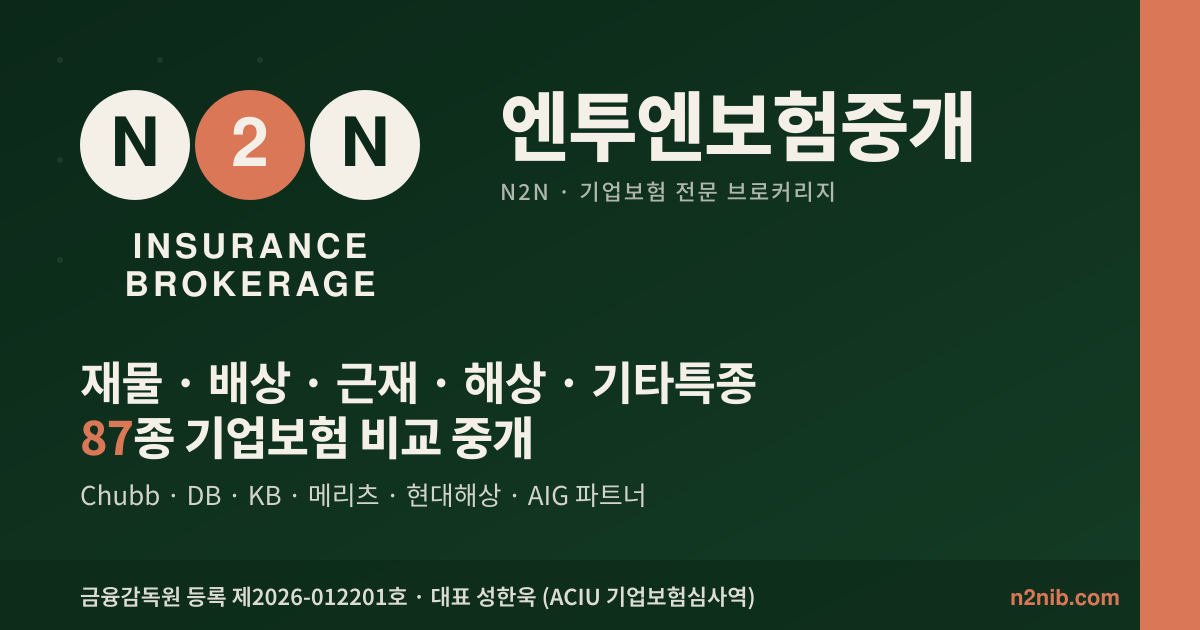
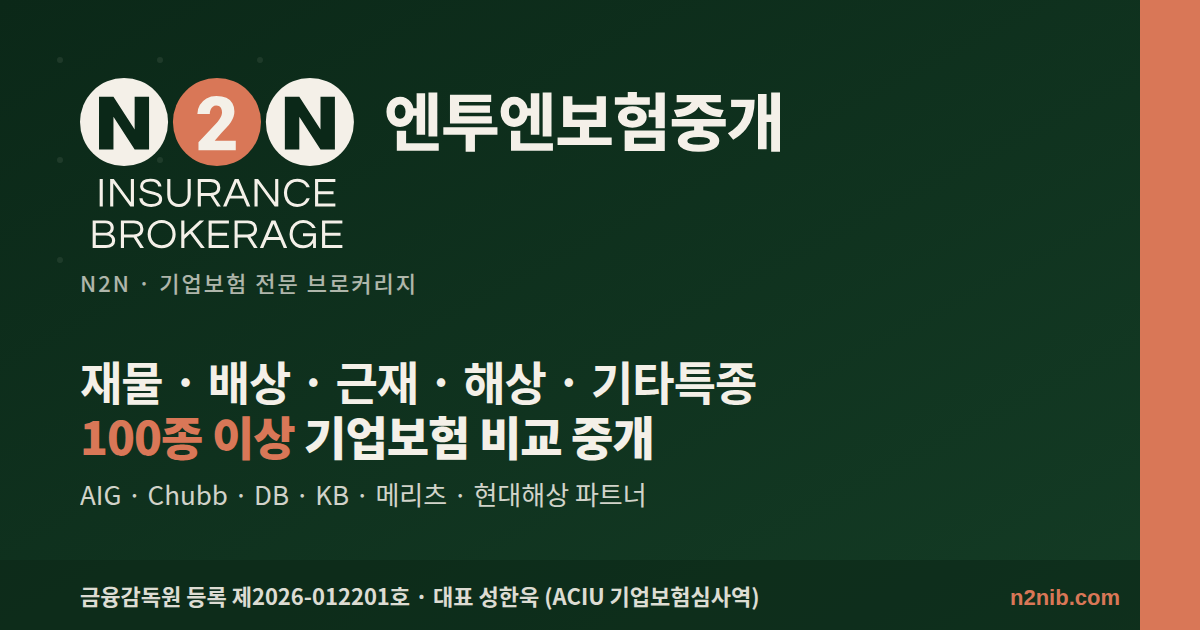
fix: OG 카드 정본 로고 적용 + 종수 100종 이상 통일, 영문 로고 재작성, og:image 9페이지 추가

diff --git a/partner/courier.html b/partner/courier.html
@@ -4,11 +4,29 @@
 <meta charset="utf-8">
 <meta name="viewport" content="width=device-width, initial-scale=1.0">
 <title>물류 파트너를 위한 적하·기업보험 비교중개 — N2N Insurance Brokerage</title>
-<meta name="description" content="FedEx·UPS·DHL·EMS 등 물류 파트너와 함께 일하는 화주를 위한 적하보험 5분 비교(cargoinsu.com) + 기업종합보험 112상품 비교중개(n2nib.com). 6개 보험사 동시 비교, ACIU 심사역 직접 상담, 사고 시 손해사정까지 N2N이 직접 처리.">
+<meta name="description" content="FedEx·UPS·DHL·EMS 등 물류 파트너와 함께 일하는 화주를 위한 적하보험 5분 비교(cargoinsu.com) + 기업종합보험 100종 이상 비교중개(n2nib.com). 6개 보험사 동시 비교, ACIU 심사역 직접 상담, 사고 시 손해사정까지 N2N이 직접 처리.">
 <meta property="og:title" content="물류 파트너를 위한 적하·기업보험 — N2N">
 <meta property="og:description" content="6개 보험사 5분 비교, ACIU 심사역 직접 상담, 사고 처리까지 한 곳에서.">
 <meta property="og:type" content="website">
 <link rel="canonical" href="https://n2nib.com/partner/courier">
+<!-- Open Graph -->
+<meta property="og:type" content="website">
+<meta property="og:locale" content="ko_KR">
+<meta property="og:site_name" content="n2nib.com">
+<meta property="og:title" content="물류 파트너를 위한 적하·기업보험 비교중개 — N2N Insurance Brokerage">
+<meta property="og:description" content="FedEx·UPS·DHL·EMS 등 물류 파트너와 함께 일하는 화주를 위한 적하보험 5분 비교(cargoinsu.com) + 기업종합보험 100종 이상 비교중개(n2nib.com). 6개 보험사 동시 비교, ACIU 심사역 직접 상담, 사고 시 손해사정까지 N2N이 직접 처리.">
+<meta property="og:url" content="https://n2nib.com/partner/courier">
+<meta property="og:image" content="https://n2nib.com/assets/og-image.png">
+<meta property="og:image:secure_url" content="https://n2nib.com/assets/og-image.png">
+<meta property="og:image:type" content="image/png">
+<meta property="og:image:width" content="1200">
+<meta property="og:image:height" content="630">
+<meta property="og:image:alt" content="엔투엔보험중개 — 기업보험 비교중개 플랫폼 n2nib.com">
+<!-- Twitter Card -->
+<meta name="twitter:card" content="summary_large_image">
+<meta name="twitter:title" content="물류 파트너를 위한 적하·기업보험 비교중개 — N2N Insurance Brokerage">
+<meta name="twitter:description" content="FedEx·UPS·DHL·EMS 등 물류 파트너와 함께 일하는 화주를 위한 적하보험 5분 비교(cargoinsu.com) + 기업종합보험 100종 이상 비교중개(n2nib.com). 6개 보험사 동시 비교, ACIU 심사역 직접 상담, 사고 시 손해사정까지 N2N이 직접 처리.">
+<meta name="twitter:image" content="https://n2nib.com/assets/og-image.png">
 <style>
   :root {
     --brand: #0B2818;
@@ -509,11 +527,11 @@
     </h1>
     <p class="hero__lead">
       cargoinsu.com에서 5분이면 <strong>6개 보험사 비교견적 + 즉시 가입 + PDF 증권 발급</strong>까지 됩니다.
-      복잡한 기업보험은 n2nib.com에서 112상품을 비교 검토할 수 있습니다.
+      복잡한 기업보험은 n2nib.com에서 100종 이상의 상품을 비교 검토할 수 있습니다.
     </p>
     <div class="hero__actions">
       <a href="https://cargoinsu.com" class="btn btn-primary">🚢 적하보험 5분 비교 →</a>
-      <a href="https://n2nib.com" class="btn btn-secondary">🏢 기업보험 112상품 보기</a>
+      <a href="https://n2nib.com" class="btn btn-secondary">🏢 기업보험 100종 이상의 상품 보기</a>
     </div>
   </div>
 </section>
@@ -545,9 +563,9 @@
       </a>
       <a href="https://n2nib.com" class="platform-card">
         <div class="platform-card__url">n2nib.com</div>
-        <div class="platform-card__role">기업종합보험 112상품 비교중개</div>
+        <div class="platform-card__role">기업종합보험 100종 이상의 상품 비교중개</div>
         <p class="platform-card__desc">
-          화재·배상·근재·기술·해상·특종 전 분야 112상품을 ACIU 심사역이 직접 비교 안내합니다.
+          화재·배상·근재·기술·해상·특종 전 분야 100종 이상의 상품을 ACIU 심사역이 직접 비교 안내합니다.
         </p>
         <ul class="platform-card__features">
           <li>재물 (화재·풍수해·기업종합 등 30종)</li>
@@ -672,7 +690,7 @@
       <details class="faq-item">
         <summary>기업보험(화재·배상·근재 등)은 어디서 비교할 수 있나요?</summary>
         <div class="faq-item__answer">
-          n2nib.com에서 화재·배상·근재·기술·해상·특종 6개 카테고리, 총 112상품을 비교하실 수 있습니다. 각 상품 페이지에 현장 사고 사례·자주 묻는 질문·가입 시 주의 항목까지 정리되어 있어 자율 검토가 가능하며, 복잡한 건은 ACIU 심사역이 직접 상담해드립니다.
+          n2nib.com에서 화재·배상·근재·기술·해상·특종 6개 카테고리, 총 100종 이상의 상품을 비교하실 수 있습니다. 각 상품 페이지에 현장 사고 사례·자주 묻는 질문·가입 시 주의 항목까지 정리되어 있어 자율 검토가 가능하며, 복잡한 건은 ACIU 심사역이 직접 상담해드립니다.
         </div>
       </details>
     </div>
@@ -716,7 +734,7 @@
       <div>
         <h4>🌐 사이트</h4>
         <a href="https://cargoinsu.com" style="color: var(--accent-light);">cargoinsu.com</a> · 적하보험<br>
-        <a href="https://n2nib.com" style="color: var(--accent-light);">n2nib.com</a> · 기업보험 112상품<br>
+        <a href="https://n2nib.com" style="color: var(--accent-light);">n2nib.com</a> · 기업보험 100종 이상의 상품<br>
         서울특별시 서초구 방배로30길 41
       </div>
     </div>

diff --git a/insights/media-production-liability.html b/insights/media-production-liability.html
@@ -7,6 +7,24 @@
 <title>[케이스] 해외 발주처의 광고 제작 계약, 영업배상책임 하나로는 왜 부족한가 — 영상 프로덕션의 3층 담보 구조 | n2nib.com</title>
 <meta name="description" content="해외 발주처가 요구하는 광고·영상 제작 계약의 보험 조항은 CGL 한 장으로 충족되지 않습니다. 현장 위험(CGL)·제작물 위험(미디어 전문직업배상)·데이터 위험(사이버)의 3층 구조와 추가피보험자·대위권 포기 등 부대조건을 ACIU 보험중개사 관점에서 익명 검토사례로 정리합니다.">
 <link rel="canonical" href="https://n2nib.com/insights/media-production-liability">
+<!-- Open Graph -->
+<meta property="og:type" content="article">
+<meta property="og:locale" content="ko_KR">
+<meta property="og:site_name" content="n2nib.com">
+<meta property="og:title" content="[케이스] 해외 발주처의 광고 제작 계약, 영업배상책임 하나로는 왜 부족한가 — 영상 프로덕션의 3층 담보 구조 | n2nib.com">
+<meta property="og:description" content="해외 발주처가 요구하는 광고·영상 제작 계약의 보험 조항은 CGL 한 장으로 충족되지 않습니다. 현장 위험(CGL)·제작물 위험(미디어 전문직업배상)·데이터 위험(사이버)의 3층 구조와 추가피보험자·대위권 포기 등 부대조건을 ACIU 보험중개사 관점에서 익명 검토사례로 정리합니다.">
+<meta property="og:url" content="https://n2nib.com/insights/media-production-liability">
+<meta property="og:image" content="https://n2nib.com/assets/og-image.png">
+<meta property="og:image:secure_url" content="https://n2nib.com/assets/og-image.png">
+<meta property="og:image:type" content="image/png">
+<meta property="og:image:width" content="1200">
+<meta property="og:image:height" content="630">
+<meta property="og:image:alt" content="엔투엔보험중개 — 기업보험 비교중개 플랫폼 n2nib.com">
+<!-- Twitter Card -->
+<meta name="twitter:card" content="summary_large_image">
+<meta name="twitter:title" content="[케이스] 해외 발주처의 광고 제작 계약, 영업배상책임 하나로는 왜 부족한가 — 영상 프로덕션의 3층 담보 구조 | n2nib.com">
+<meta name="twitter:description" content="해외 발주처가 요구하는 광고·영상 제작 계약의 보험 조항은 CGL 한 장으로 충족되지 않습니다. 현장 위험(CGL)·제작물 위험(미디어 전문직업배상)·데이터 위험(사이버)의 3층 구조와 추가피보험자·대위권 포기 등 부대조건을 ACIU 보험중개사 관점에서 익명 검토사례로 정리합니다.">
+<meta name="twitter:image" content="https://n2nib.com/assets/og-image.png">
 
 <link rel="preconnect" href="https://fonts.googleapis.com">
 <link rel="preconnect" href="https://fonts.gstatic.com" crossorigin>

diff --git a/insights/overseas-contract-pi-eo.html b/insights/overseas-contract-pi-eo.html
@@ -7,6 +7,24 @@
 <title>[케이스] 해외 용역계약이 요구하는 PI·E&amp;O — '6년 유지' 조항과 ERP를 어떻게 처리하는가 | n2nib.com</title>
 <meta name="description" content="해외 고객사와 용역계약을 맺을 때 요구되는 전문직업배상책임보험(PI/E&O). 보상한도 통화, 준거법·재판관할, 계약 종료 후 6년 유지 조항, 60개월 run-off 요구를 국내 보험시장에서 어떻게 처리하는지 ACIU 보험중개사 관점에서 익명 검토사례로 정리합니다.">
 <link rel="canonical" href="https://n2nib.com/insights/overseas-contract-pi-eo">
+<!-- Open Graph -->
+<meta property="og:type" content="article">
+<meta property="og:locale" content="ko_KR">
+<meta property="og:site_name" content="n2nib.com">
+<meta property="og:title" content="[케이스] 해외 용역계약이 요구하는 PI·E&amp;O — '6년 유지' 조항과 ERP를 어떻게 처리하는가 | n2nib.com">
+<meta property="og:description" content="해외 고객사와 용역계약을 맺을 때 요구되는 전문직업배상책임보험(PI/E&amp;O). 보상한도 통화, 준거법·재판관할, 계약 종료 후 6년 유지 조항, 60개월 run-off 요구를 국내 보험시장에서 어떻게 처리하는지 ACIU 보험중개사 관점에서 익명 검토사례로 정리합니다.">
+<meta property="og:url" content="https://n2nib.com/insights/overseas-contract-pi-eo">
+<meta property="og:image" content="https://n2nib.com/assets/og-image.png">
+<meta property="og:image:secure_url" content="https://n2nib.com/assets/og-image.png">
+<meta property="og:image:type" content="image/png">
+<meta property="og:image:width" content="1200">
+<meta property="og:image:height" content="630">
+<meta property="og:image:alt" content="엔투엔보험중개 — 기업보험 비교중개 플랫폼 n2nib.com">
+<!-- Twitter Card -->
+<meta name="twitter:card" content="summary_large_image">
+<meta name="twitter:title" content="[케이스] 해외 용역계약이 요구하는 PI·E&amp;O — '6년 유지' 조항과 ERP를 어떻게 처리하는가 | n2nib.com">
+<meta name="twitter:description" content="해외 고객사와 용역계약을 맺을 때 요구되는 전문직업배상책임보험(PI/E&amp;O). 보상한도 통화, 준거법·재판관할, 계약 종료 후 6년 유지 조항, 60개월 run-off 요구를 국내 보험시장에서 어떻게 처리하는지 ACIU 보험중개사 관점에서 익명 검토사례로 정리합니다.">
+<meta name="twitter:image" content="https://n2nib.com/assets/og-image.png">
 
 <link rel="preconnect" href="https://fonts.googleapis.com">
 <link rel="preconnect" href="https://fonts.gstatic.com" crossorigin>

diff --git a/insights/case-clinical-phase1.html b/insights/case-clinical-phase1.html
@@ -7,6 +7,24 @@
 <meta name="description" content="임상시험 배상책임보험에서 법률상 배상책임과 피험자 무과실 보상의 차이, claims-made 소급담보일과 시험 종료 후 담보, 의뢰자·실시기관·시험자 간 책임 구분을 실제 검토 사례로 정리합니다.">
 <meta name="robots" content="index, follow">
 <link rel="canonical" href="https://n2nib.com/insights/case-clinical-phase1">
+<!-- Open Graph -->
+<meta property="og:type" content="article">
+<meta property="og:locale" content="ko_KR">
+<meta property="og:site_name" content="n2nib.com">
+<meta property="og:title" content="임상시험 중 피험자에게 이상반응이 생겼다 — 배상책임과 보상은 다른 문제다 | 현장에서 본 기업보험">
+<meta property="og:description" content="임상시험 배상책임보험에서 법률상 배상책임과 피험자 무과실 보상의 차이, claims-made 소급담보일과 시험 종료 후 담보, 의뢰자·실시기관·시험자 간 책임 구분을 실제 검토 사례로 정리합니다.">
+<meta property="og:url" content="https://n2nib.com/insights/case-clinical-phase1">
+<meta property="og:image" content="https://n2nib.com/assets/og-image.png">
+<meta property="og:image:secure_url" content="https://n2nib.com/assets/og-image.png">
+<meta property="og:image:type" content="image/png">
+<meta property="og:image:width" content="1200">
+<meta property="og:image:height" content="630">
+<meta property="og:image:alt" content="엔투엔보험중개 — 기업보험 비교중개 플랫폼 n2nib.com">
+<!-- Twitter Card -->
+<meta name="twitter:card" content="summary_large_image">
+<meta name="twitter:title" content="임상시험 중 피험자에게 이상반응이 생겼다 — 배상책임과 보상은 다른 문제다 | 현장에서 본 기업보험">
+<meta name="twitter:description" content="임상시험 배상책임보험에서 법률상 배상책임과 피험자 무과실 보상의 차이, claims-made 소급담보일과 시험 종료 후 담보, 의뢰자·실시기관·시험자 간 책임 구분을 실제 검토 사례로 정리합니다.">
+<meta name="twitter:image" content="https://n2nib.com/assets/og-image.png">
 <meta property="og:type" content="article">
 <meta property="og:url" content="https://n2nib.com/insights/case-clinical-phase1">
 <meta property="og:title" content="임상시험 중 피험자에게 이상반응이 생겼다 — 배상책임과 보상은 다른 문제다 | 현장에서 본 기업보험">

diff --git a/insights/us-msa-required-insurance.html b/insights/us-msa-required-insurance.html
@@ -7,6 +7,24 @@
 <title>[케이스] 미국 발주처 계약의 요구보험 — 국내 증권으로 충족되지 않는 것들 | n2nib.com</title>
 <meta name="description" content="미국 발주처와의 공급·설치 계약이 요구하는 CGL·근재(WC/EL)·자동차·우산·설계책임·설치공사 보험. admitted 요건, 추가피보험자 배서의 두 종류, 산재이력 고지의무를 ACIU 보험중개사 관점에서 익명 검토사례로 정리합니다.">
 <link rel="canonical" href="https://n2nib.com/insights/us-msa-required-insurance">
+<!-- Open Graph -->
+<meta property="og:type" content="article">
+<meta property="og:locale" content="ko_KR">
+<meta property="og:site_name" content="n2nib.com">
+<meta property="og:title" content="[케이스] 미국 발주처 계약의 요구보험 — 국내 증권으로 충족되지 않는 것들 | n2nib.com">
+<meta property="og:description" content="미국 발주처와의 공급·설치 계약이 요구하는 CGL·근재(WC/EL)·자동차·우산·설계책임·설치공사 보험. admitted 요건, 추가피보험자 배서의 두 종류, 산재이력 고지의무를 ACIU 보험중개사 관점에서 익명 검토사례로 정리합니다.">
+<meta property="og:url" content="https://n2nib.com/insights/us-msa-required-insurance">
+<meta property="og:image" content="https://n2nib.com/assets/og-image.png">
+<meta property="og:image:secure_url" content="https://n2nib.com/assets/og-image.png">
+<meta property="og:image:type" content="image/png">
+<meta property="og:image:width" content="1200">
+<meta property="og:image:height" content="630">
+<meta property="og:image:alt" content="엔투엔보험중개 — 기업보험 비교중개 플랫폼 n2nib.com">
+<!-- Twitter Card -->
+<meta name="twitter:card" content="summary_large_image">
+<meta name="twitter:title" content="[케이스] 미국 발주처 계약의 요구보험 — 국내 증권으로 충족되지 않는 것들 | n2nib.com">
+<meta name="twitter:description" content="미국 발주처와의 공급·설치 계약이 요구하는 CGL·근재(WC/EL)·자동차·우산·설계책임·설치공사 보험. admitted 요건, 추가피보험자 배서의 두 종류, 산재이력 고지의무를 ACIU 보험중개사 관점에서 익명 검토사례로 정리합니다.">
+<meta name="twitter:image" content="https://n2nib.com/assets/og-image.png">
 
 <link rel="preconnect" href="https://fonts.googleapis.com">
 <link rel="preconnect" href="https://fonts.gstatic.com" crossorigin>

diff --git a/insights/case-event-organizer.html b/insights/case-event-organizer.html
@@ -7,6 +7,24 @@
 <meta name="description" content="행사주최자 배상책임보험에서 제3자(참가자)와 스태프의 구분, 법률상 배상책임과 무과실 상해보상의 차이, 체험형 행사의 위험 요소와 하도급 책임 이전을 실제 설계 사례로 정리합니다.">
 <meta name="robots" content="index, follow">
 <link rel="canonical" href="https://n2nib.com/insights/case-event-organizer">
+<!-- Open Graph -->
+<meta property="og:type" content="article">
+<meta property="og:locale" content="ko_KR">
+<meta property="og:site_name" content="n2nib.com">
+<meta property="og:title" content="체험 행사에서 참가자가 다쳤다 — 그런데 다친 사람이 스태프라면 | 현장에서 본 기업보험">
+<meta property="og:description" content="행사주최자 배상책임보험에서 제3자(참가자)와 스태프의 구분, 법률상 배상책임과 무과실 상해보상의 차이, 체험형 행사의 위험 요소와 하도급 책임 이전을 실제 설계 사례로 정리합니다.">
+<meta property="og:url" content="https://n2nib.com/insights/case-event-organizer">
+<meta property="og:image" content="https://n2nib.com/assets/og-image.png">
+<meta property="og:image:secure_url" content="https://n2nib.com/assets/og-image.png">
+<meta property="og:image:type" content="image/png">
+<meta property="og:image:width" content="1200">
+<meta property="og:image:height" content="630">
+<meta property="og:image:alt" content="엔투엔보험중개 — 기업보험 비교중개 플랫폼 n2nib.com">
+<!-- Twitter Card -->
+<meta name="twitter:card" content="summary_large_image">
+<meta name="twitter:title" content="체험 행사에서 참가자가 다쳤다 — 그런데 다친 사람이 스태프라면 | 현장에서 본 기업보험">
+<meta name="twitter:description" content="행사주최자 배상책임보험에서 제3자(참가자)와 스태프의 구분, 법률상 배상책임과 무과실 상해보상의 차이, 체험형 행사의 위험 요소와 하도급 책임 이전을 실제 설계 사례로 정리합니다.">
+<meta name="twitter:image" content="https://n2nib.com/assets/og-image.png">
 <meta property="og:type" content="article">
 <meta property="og:url" content="https://n2nib.com/insights/case-event-organizer">
 <meta property="og:title" content="체험 행사에서 참가자가 다쳤다 — 그런데 다친 사람이 스태프라면 | 현장에서 본 기업보험">

diff --git a/insights/case-outdoor-ad.html b/insights/case-outdoor-ad.html
@@ -7,6 +7,24 @@
 <meta name="description" content="옥외광고물 낙하·탈락 사고에서 광고주·시설주·설치관리업체의 책임 구분, 광고물 자체 손해와 제3자 배상의 차이, 태풍 등 자연재해 시 담보 쟁점을 정리합니다.">
 <meta name="robots" content="index, follow">
 <link rel="canonical" href="https://n2nib.com/insights/case-outdoor-ad">
+<!-- Open Graph -->
+<meta property="og:type" content="article">
+<meta property="og:locale" content="ko_KR">
+<meta property="og:site_name" content="n2nib.com">
+<meta property="og:title" content="간판이 떨어져 행인이 다쳤다 — 광고주·건물주·설치업체 중 누구의 보험인가 | 현장에서 본 기업보험">
+<meta property="og:description" content="옥외광고물 낙하·탈락 사고에서 광고주·시설주·설치관리업체의 책임 구분, 광고물 자체 손해와 제3자 배상의 차이, 태풍 등 자연재해 시 담보 쟁점을 정리합니다.">
+<meta property="og:url" content="https://n2nib.com/insights/case-outdoor-ad">
+<meta property="og:image" content="https://n2nib.com/assets/og-image.png">
+<meta property="og:image:secure_url" content="https://n2nib.com/assets/og-image.png">
+<meta property="og:image:type" content="image/png">
+<meta property="og:image:width" content="1200">
+<meta property="og:image:height" content="630">
+<meta property="og:image:alt" content="엔투엔보험중개 — 기업보험 비교중개 플랫폼 n2nib.com">
+<!-- Twitter Card -->
+<meta name="twitter:card" content="summary_large_image">
+<meta name="twitter:title" content="간판이 떨어져 행인이 다쳤다 — 광고주·건물주·설치업체 중 누구의 보험인가 | 현장에서 본 기업보험">
+<meta name="twitter:description" content="옥외광고물 낙하·탈락 사고에서 광고주·시설주·설치관리업체의 책임 구분, 광고물 자체 손해와 제3자 배상의 차이, 태풍 등 자연재해 시 담보 쟁점을 정리합니다.">
+<meta name="twitter:image" content="https://n2nib.com/assets/og-image.png">
 <meta property="og:type" content="article">
 <meta property="og:url" content="https://n2nib.com/insights/case-outdoor-ad">
 <meta property="og:title" content="간판이 떨어져 행인이 다쳤다 — 광고주·건물주·설치업체 중 누구의 보험인가 | 현장에서 본 기업보험">

diff --git a/insights/case-dental-malpractice.html b/insights/case-dental-malpractice.html
@@ -7,6 +7,24 @@
 <meta name="description" content="치과 의사배상책임보험의 claims-made 구조와 소급담보일 연속성, 의료기관과 의사 개인의 피보험자 범위, 심미 목적 시술의 담보 제외 쟁점을 실제 검토 사례로 정리합니다.">
 <meta name="robots" content="index, follow">
 <link rel="canonical" href="https://n2nib.com/insights/case-dental-malpractice">
+<!-- Open Graph -->
+<meta property="og:type" content="article">
+<meta property="og:locale" content="ko_KR">
+<meta property="og:site_name" content="n2nib.com">
+<meta property="og:title" content="치과 임플란트 후 신경 손상 — 개원 전 진료분은 담보되는가 | 현장에서 본 기업보험">
+<meta property="og:description" content="치과 의사배상책임보험의 claims-made 구조와 소급담보일 연속성, 의료기관과 의사 개인의 피보험자 범위, 심미 목적 시술의 담보 제외 쟁점을 실제 검토 사례로 정리합니다.">
+<meta property="og:url" content="https://n2nib.com/insights/case-dental-malpractice">
+<meta property="og:image" content="https://n2nib.com/assets/og-image.png">
+<meta property="og:image:secure_url" content="https://n2nib.com/assets/og-image.png">
+<meta property="og:image:type" content="image/png">
+<meta property="og:image:width" content="1200">
+<meta property="og:image:height" content="630">
+<meta property="og:image:alt" content="엔투엔보험중개 — 기업보험 비교중개 플랫폼 n2nib.com">
+<!-- Twitter Card -->
+<meta name="twitter:card" content="summary_large_image">
+<meta name="twitter:title" content="치과 임플란트 후 신경 손상 — 개원 전 진료분은 담보되는가 | 현장에서 본 기업보험">
+<meta name="twitter:description" content="치과 의사배상책임보험의 claims-made 구조와 소급담보일 연속성, 의료기관과 의사 개인의 피보험자 범위, 심미 목적 시술의 담보 제외 쟁점을 실제 검토 사례로 정리합니다.">
+<meta name="twitter:image" content="https://n2nib.com/assets/og-image.png">
 <meta property="og:type" content="article">
 <meta property="og:url" content="https://n2nib.com/insights/case-dental-malpractice">
 <meta property="og:title" content="치과 임플란트 후 신경 손상 — 개원 전 진료분은 담보되는가 | 현장에서 본 기업보험">

diff --git a/insights/index.html b/insights/index.html
@@ -7,6 +7,24 @@
 <meta name="description" content="기업보험 실무에서 실제로 다툼이 되는 지점을 약관 차원에서 분석하는 케이스 시리즈. 임상시험 배상책임, 의사배상, 행사주최자, 옥외광고물까지 — 보험중개사가 검토한 실제 사안을 익명으로 정리합니다.">
 <meta name="robots" content="index, follow">
 <link rel="canonical" href="https://n2nib.com/insights/">
+<!-- Open Graph -->
+<meta property="og:type" content="website">
+<meta property="og:locale" content="ko_KR">
+<meta property="og:site_name" content="n2nib.com">
+<meta property="og:title" content="현장에서 본 기업보험 — 실제 검토 케이스 시리즈">
+<meta property="og:description" content="기업보험 실무에서 실제로 다툼이 되는 지점을 약관 차원에서 분석하는 케이스 시리즈. 임상시험 배상책임, 의사배상, 행사주최자, 옥외광고물까지 — 보험중개사가 검토한 실제 사안을 익명으로 정리합니다.">
+<meta property="og:url" content="https://n2nib.com/insights/">
+<meta property="og:image" content="https://n2nib.com/assets/og-image.png">
+<meta property="og:image:secure_url" content="https://n2nib.com/assets/og-image.png">
+<meta property="og:image:type" content="image/png">
+<meta property="og:image:width" content="1200">
+<meta property="og:image:height" content="630">
+<meta property="og:image:alt" content="엔투엔보험중개 — 기업보험 비교중개 플랫폼 n2nib.com">
+<!-- Twitter Card -->
+<meta name="twitter:card" content="summary_large_image">
+<meta name="twitter:title" content="현장에서 본 기업보험 — 실제 검토 케이스 시리즈">
+<meta name="twitter:description" content="기업보험 실무에서 실제로 다툼이 되는 지점을 약관 차원에서 분석하는 케이스 시리즈. 임상시험 배상책임, 의사배상, 행사주최자, 옥외광고물까지 — 보험중개사가 검토한 실제 사안을 익명으로 정리합니다.">
+<meta name="twitter:image" content="https://n2nib.com/assets/og-image.png">
 <meta property="og:type" content="article">
 <meta property="og:url" content="https://n2nib.com/insights/">
 <meta property="og:title" content="현장에서 본 기업보험 — 실제 검토 케이스 시리즈 | 엔투엔보험중개">

diff --git a/intro.html b/intro.html
@@ -11,7 +11,7 @@
 <meta property="og:title" content="기업보험 110여 종, 한 곳에서 비교 설계합니다">
 <meta property="og:description" content="금융감독원 등록 보험중개사 — AIG·Chubb·DB·KB·메리츠·현대해상 비교.">
 <meta property="og:url" content="https://n2nib.com/intro">
-<meta property="og:image" content="https://n2nib.com/og-image.png">
+<meta property="og:image" content="https://n2nib.com/assets/og-image.png">
 <meta name="twitter:card" content="summary_large_image">
 <style>
   :root{
